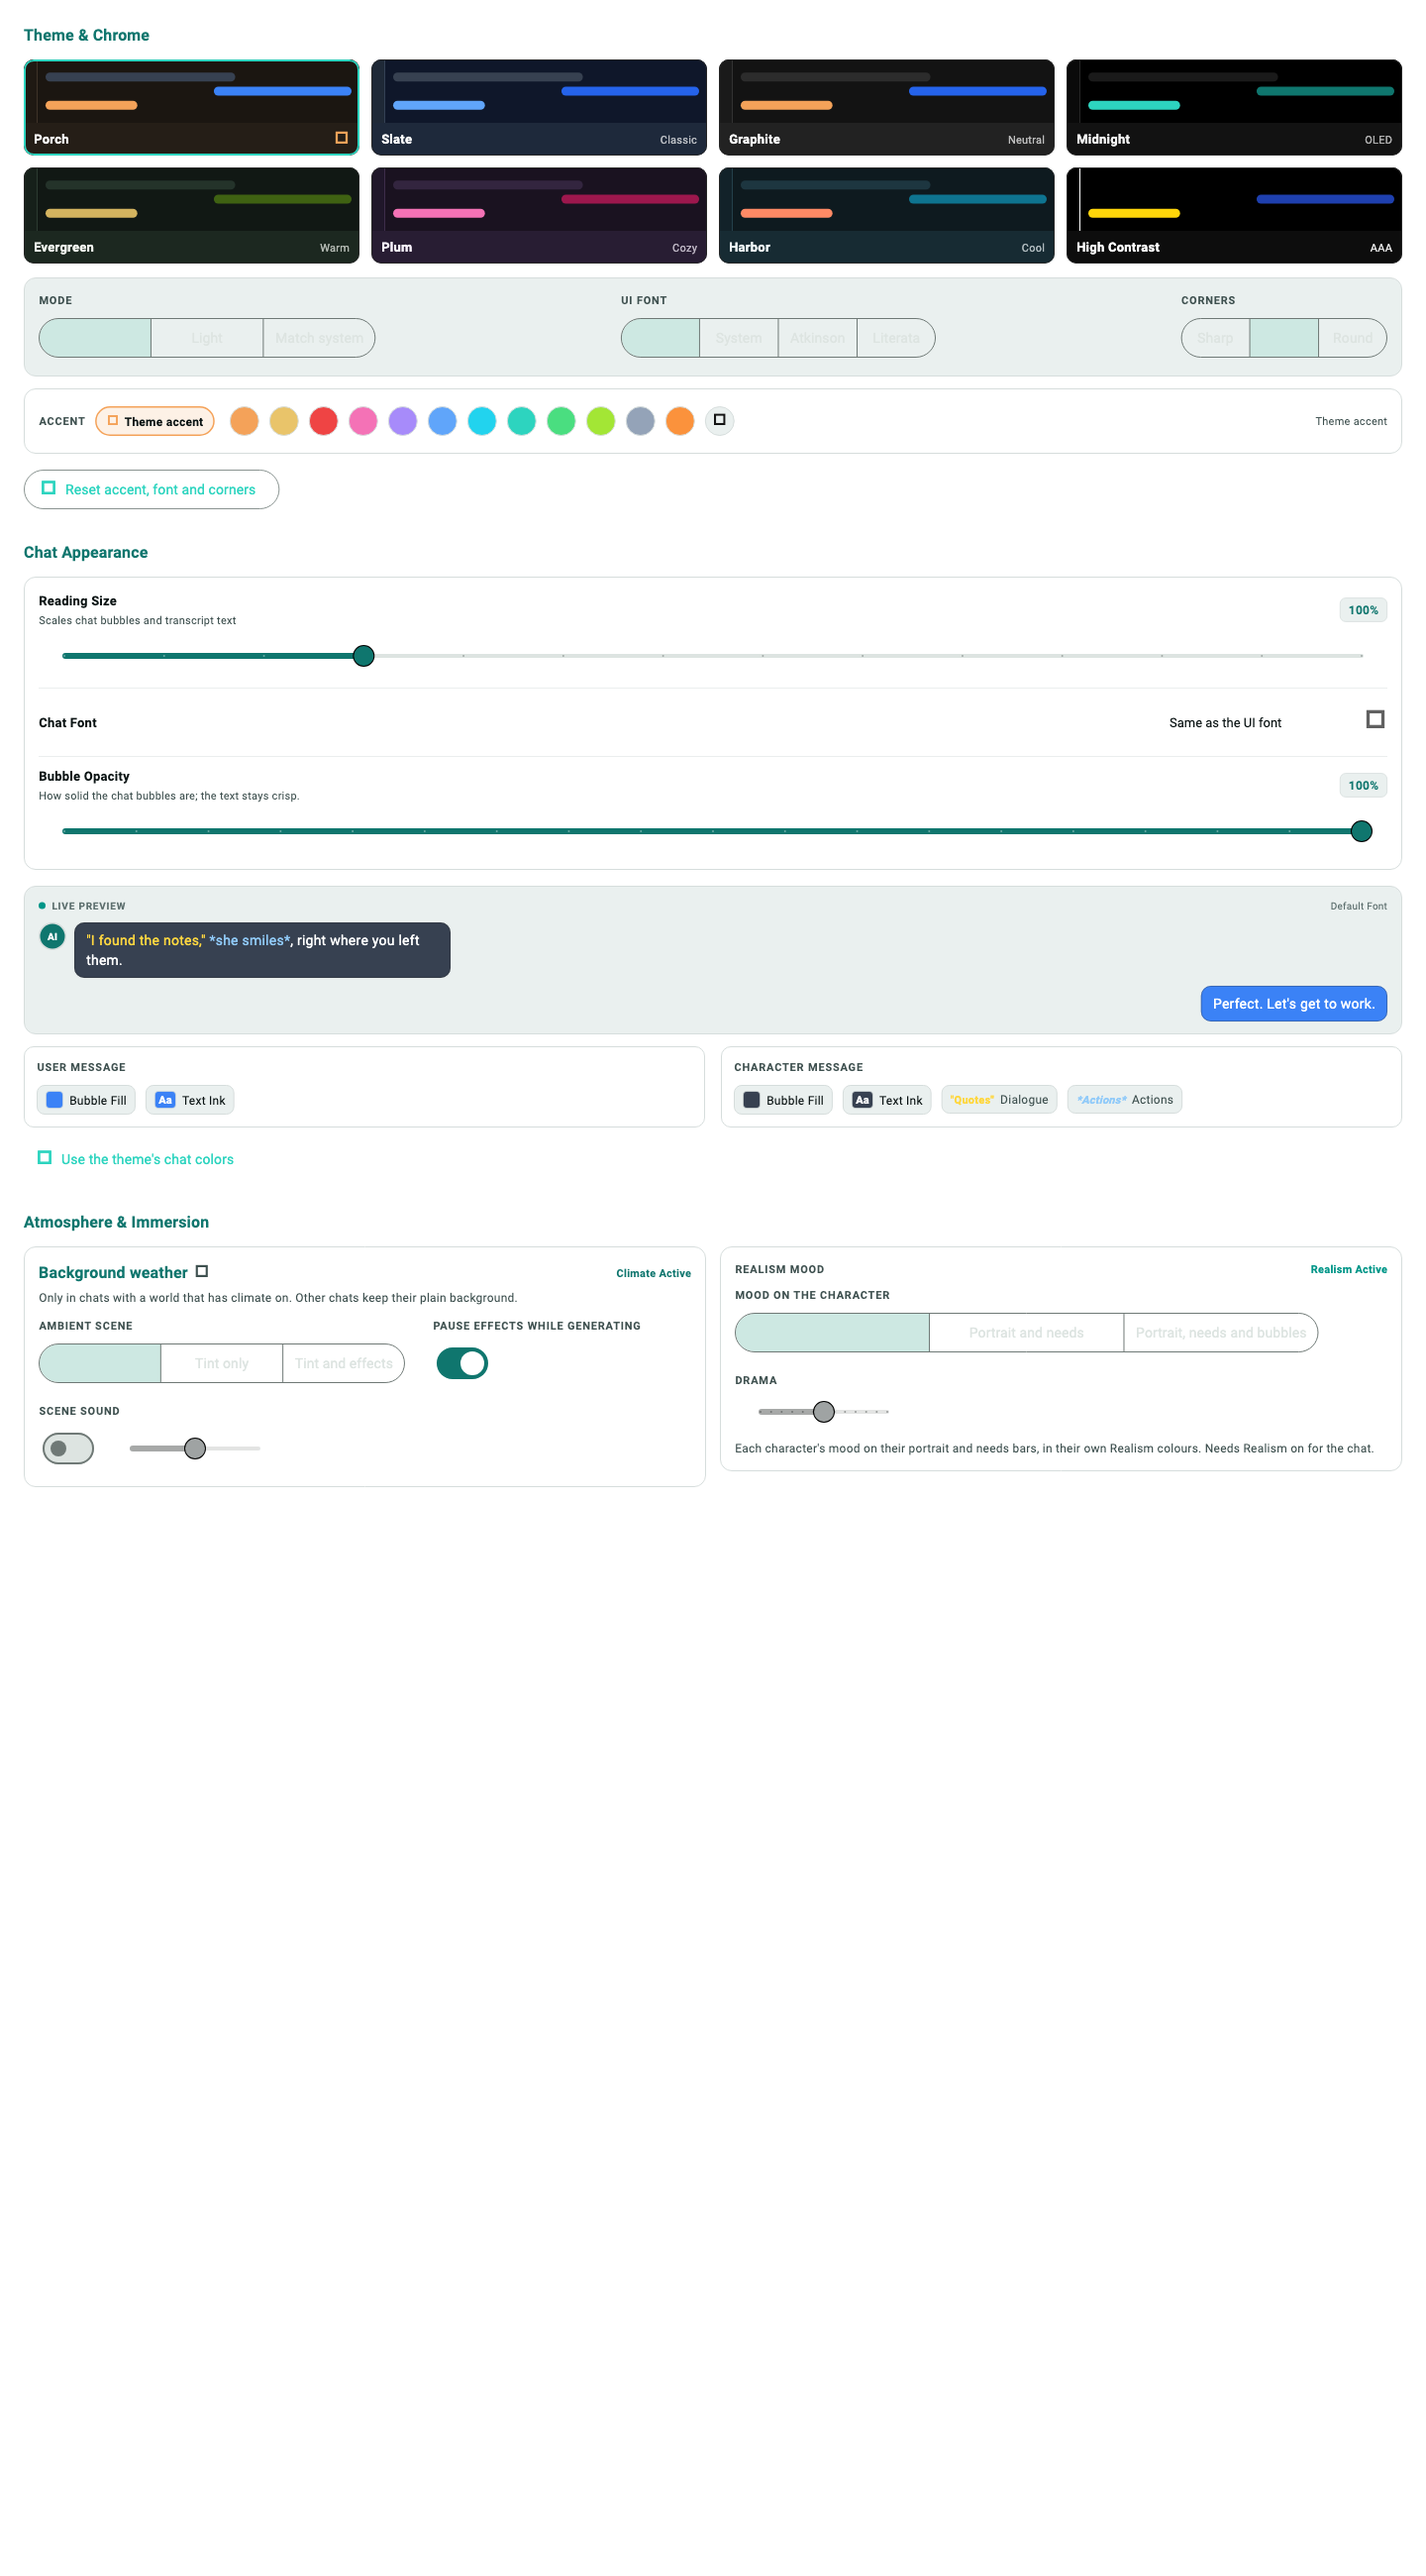
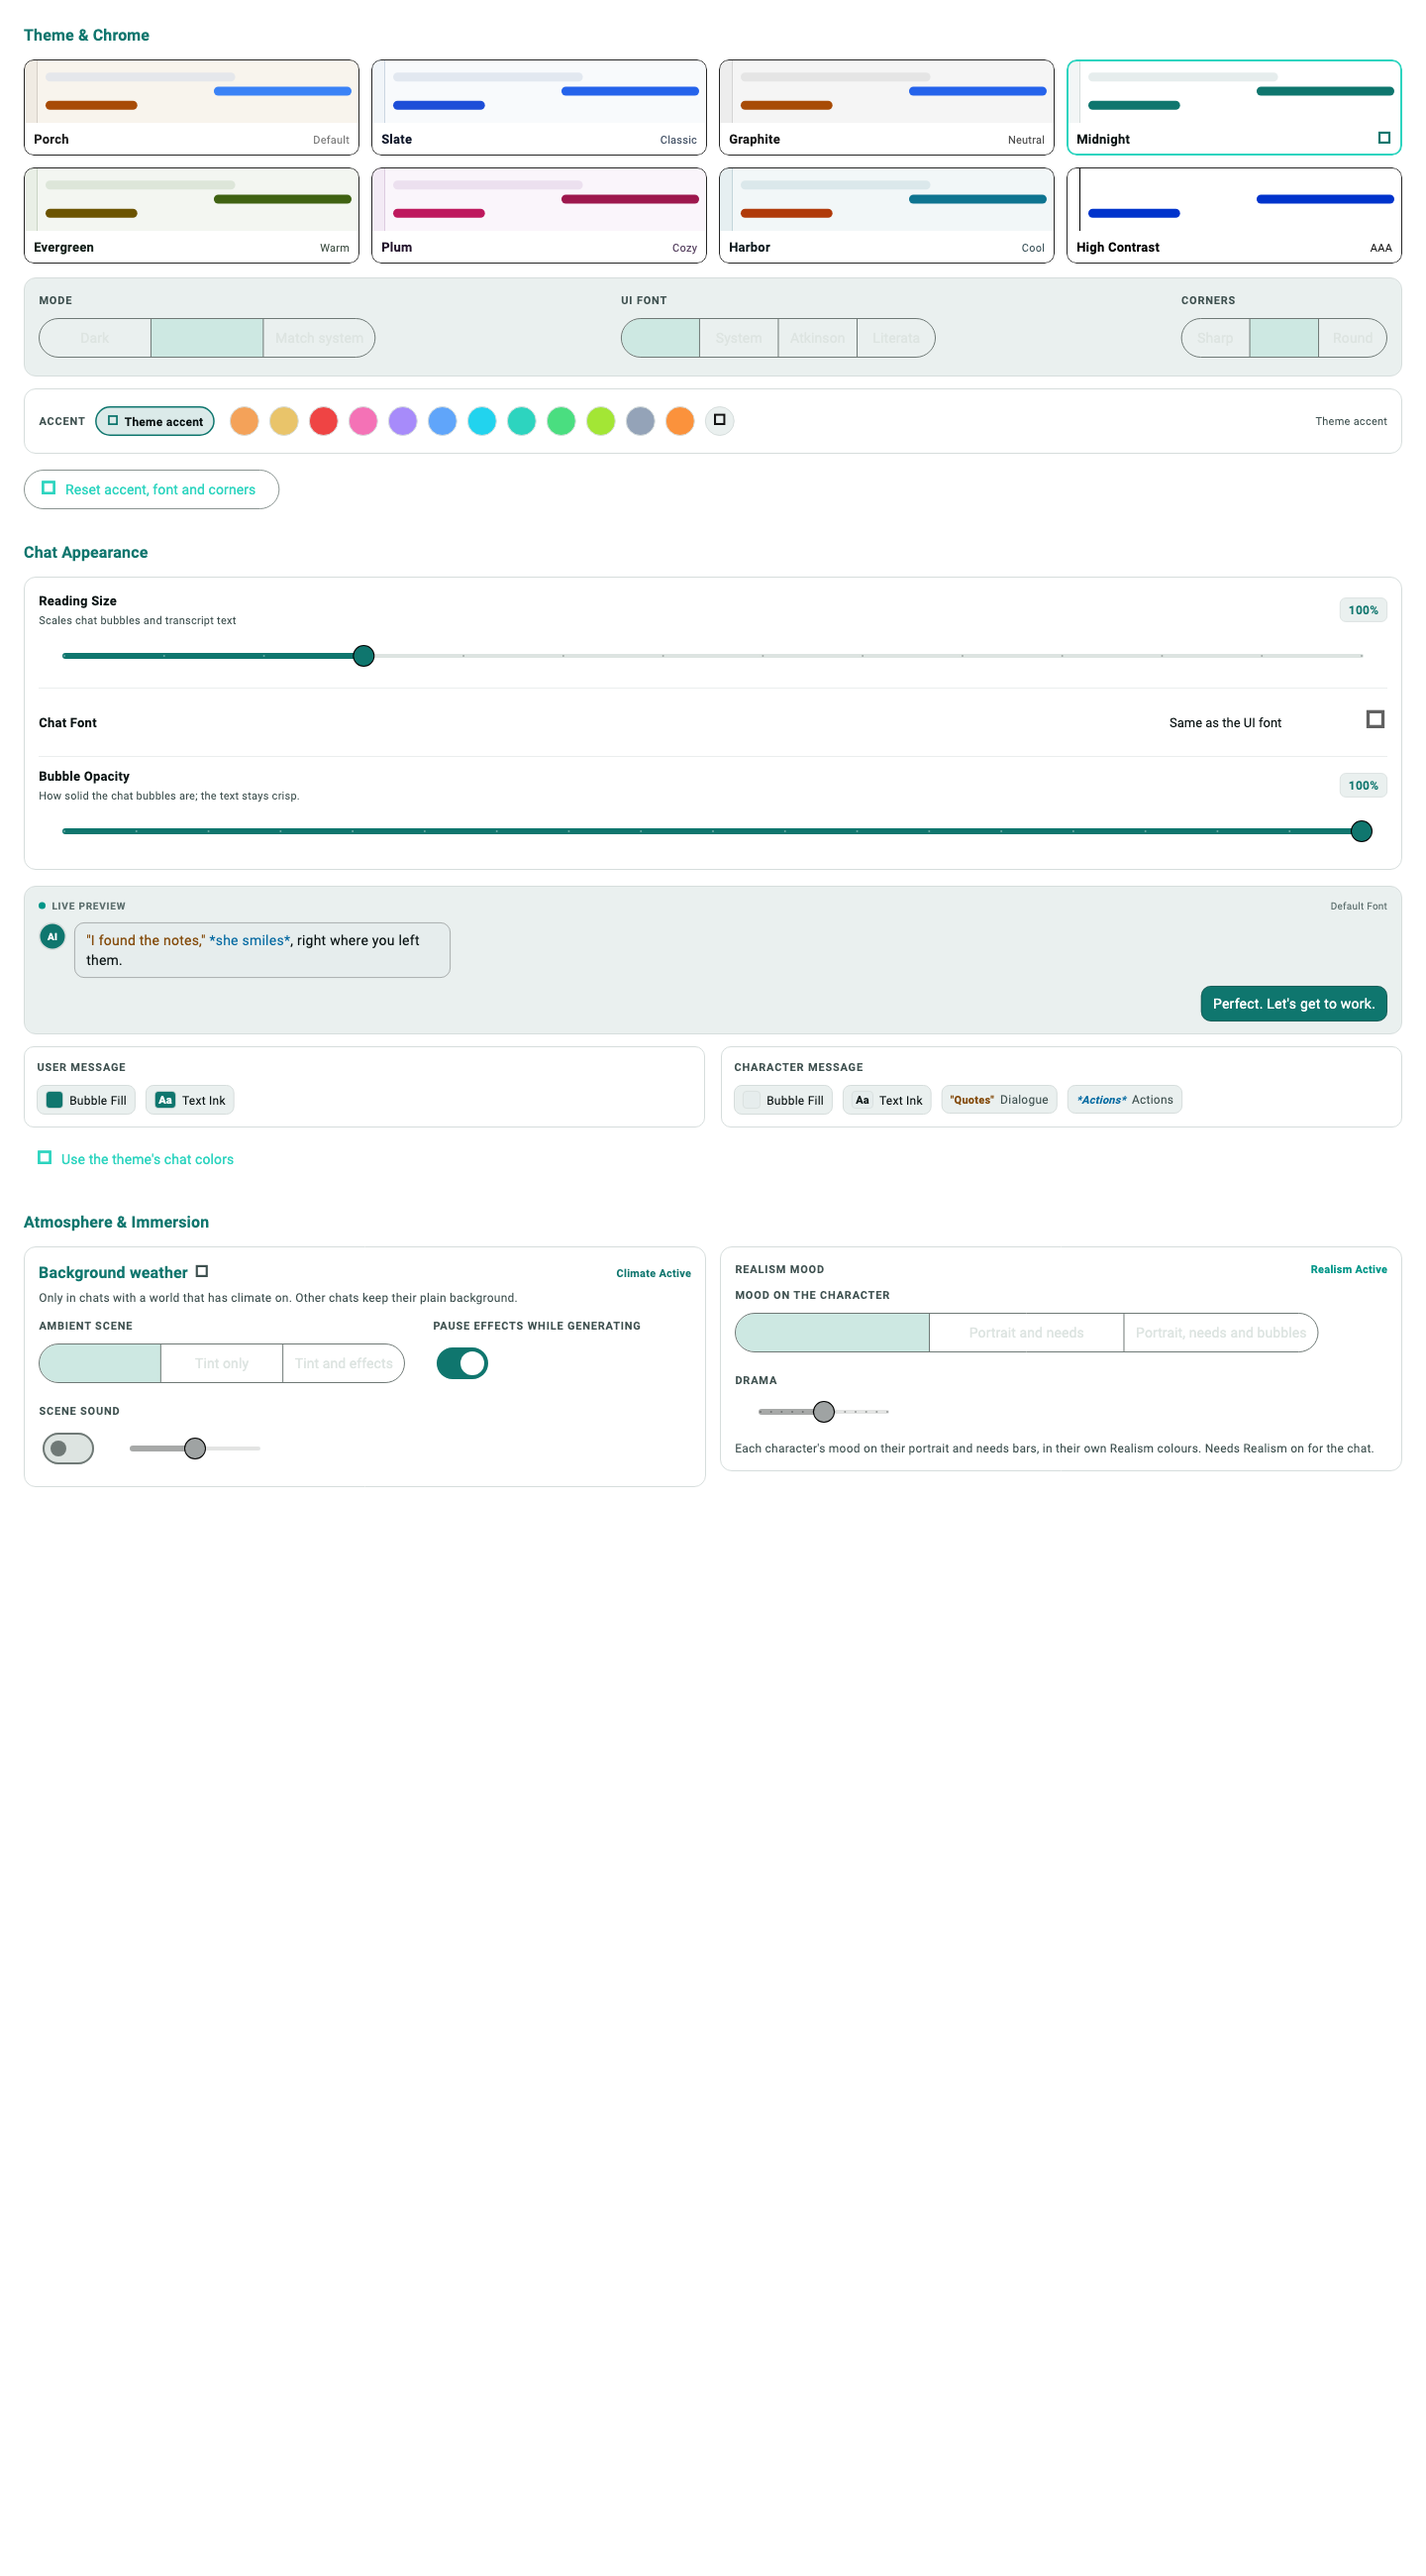
test(golden): the harness pumped light but told the model it was dark
QA caught the light Appearance render showing a wall of dark theme
cards, selected card included. The app is innocent: ThemeCardGrid
follows AppearanceSettings.isDark, which defaults to dark, while the
golden helper pumps its own MaterialApp brightness and never mentions
the model. Production can't diverge (its root derives the theme from
that same setting); my test tree was faking a state the app cannot
hold. _SyncBrightnessToModel now mirrors the pumped brightness into
the model before the grid builds. The 24 PR renders regenerate honest:
each card in its own light variant, MODE lit on Light. [update-goldens]

Generated with OpenCode (Qwen3.8-Flash-Next-Uncensored-oQ5e-mtp)

Changed region(s): [[0.0, 0.0, 1.0, 0.1869], [0.0312, 0.3427, 0.3125, 0.405], [0.8438, 0.3738, 0.9688, 0.405]]

diff --git a/test/golden/widget/settings_tabs_golden_test.dart b/test/golden/widget/settings_tabs_golden_test.dart
@@ -37,12 +37,45 @@ import 'package:shared_preferences/shared_preferences.dart';
 import 'package:front_porch_ai/services/services.dart';
 import 'package:front_porch_ai/services/storage/storage.dart';
 import 'package:front_porch_ai/ui/settings/tabs/tabs.dart';
+import 'package:front_porch_ai/ui/theme/theme.dart';
 
 import '../support/fakes.dart';
 import '../support/fakes_storage.dart';
 import '../support/golden_app.dart';
 
 const _group = 'settings_tabs';
+
+/// The house helper pumps its own MaterialApp brightness and knows nothing
+/// about AppearanceSettings, whose mode defaults to dark. [ThemeCardGrid]
+/// faithfully follows the model, so without this the light goldens painted
+/// every theme card — including the selected one — in its dark palette:
+/// a cream page advertising a dark gallery. The production app can never
+/// diverge (its root derives the MaterialApp theme from this same model);
+/// the test tree must not fake a state the app cannot hold.
+class _SyncBrightnessToModel extends StatefulWidget {
+  const _SyncBrightnessToModel({required this.child});
+
+  final Widget child;
+
+  @override
+  State<_SyncBrightnessToModel> createState() => _SyncBrightnessToModelState();
+}
+
+class _SyncBrightnessToModelState extends State<_SyncBrightnessToModel> {
+  @override
+  void didChangeDependencies() {
+    super.didChangeDependencies();
+    final dark = Theme.of(context).brightness == Brightness.dark;
+    final appearance = context.read<StorageService>().appearance;
+    final wanted = dark ? AppThemeMode.dark : AppThemeMode.light;
+    if (appearance.mode != wanted) {
+      appearance.setMode(wanted);
+    }
+  }
+
+  @override
+  Widget build(BuildContext context) => widget.child;
+}
 
 /// The dialog-audited house fake plus the members only the Settings tabs
 /// read (the appearance model, the generation-preset store, and the static
@@ -97,7 +130,7 @@ void main() {
                 create: (_) => FakeChatService(),
               ),
             ],
-            child: tab.value(),
+            child: _SyncBrightnessToModel(child: tab.value()),
           ),
           group: _group,
           name: '${tab.key}_${surface.key}',
